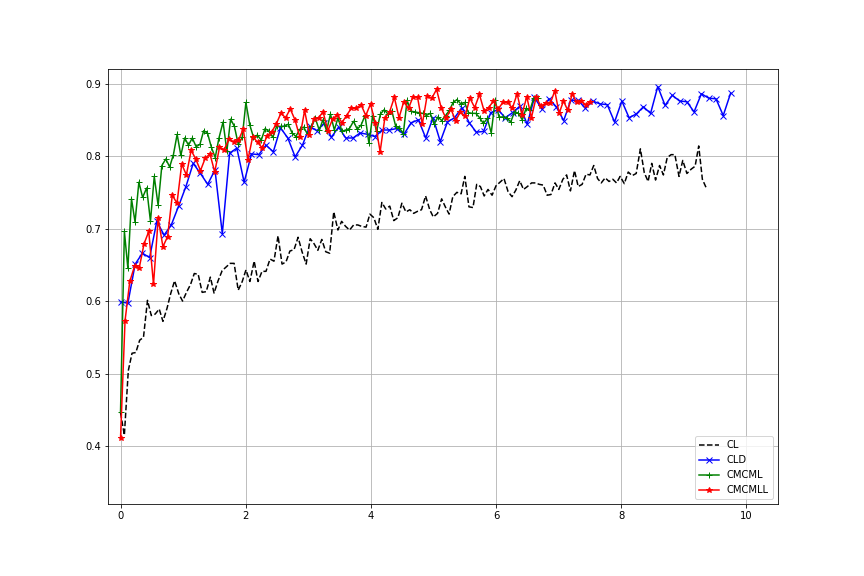
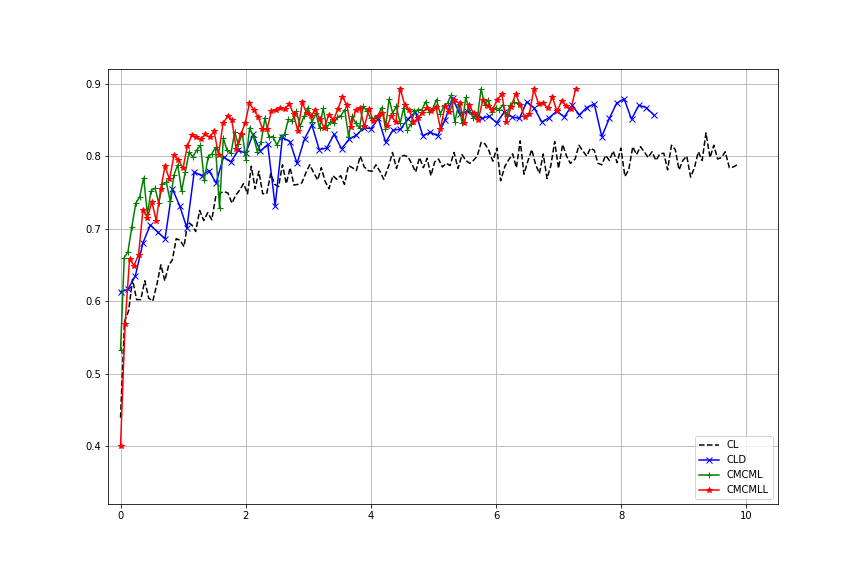
graphs with increased epoch limit

diff --git a/content/4.2-methodology.tex b/content/4.2-methodology.tex
@@ -9,8 +9,7 @@ For similar reasons, networks that require too much tuning to perform well are u
 
 
 %metricas
-To identify networks with such requirements, each experiment use two stop conditions, a limit of 150 epochs, or ten minutes, or an accuracy of 90\% in the training set, whichever occurs first. These limits were established during the first preliminary results.
-\todo[inline]{remove 150 epochs limit, time limit is enough}
+To identify networks with such requirements, each experiment use two stop conditions, ten minutes, or an accuracy of 90\% in the training set, whichever occurs first. These limits were established during the experiments.
 
 %Since the rate of change of accuracy may present oscillations during training, a visual comparison of accuracy versus time curves is important to confirm which network has better training times.
 

diff --git a/content/4.5.2-random-block.tex b/content/4.5.2-random-block.tex
@@ -32,4 +32,3 @@ CL      & 24663     & all   & 159   & 10m00s    & 0.83  & 0.789 \\\hline
 \centering\includegraphics[width=0.65\textwidth]{content/CL-D-LD.png}
 \caption[Experiments with random blocks]{\label{fig:randomblock}Filetype identification experiments with random block - accuracy vs. time(minutes)}%
 \end{figure}
-\todo[inline]{rerun D without epoch limit}
